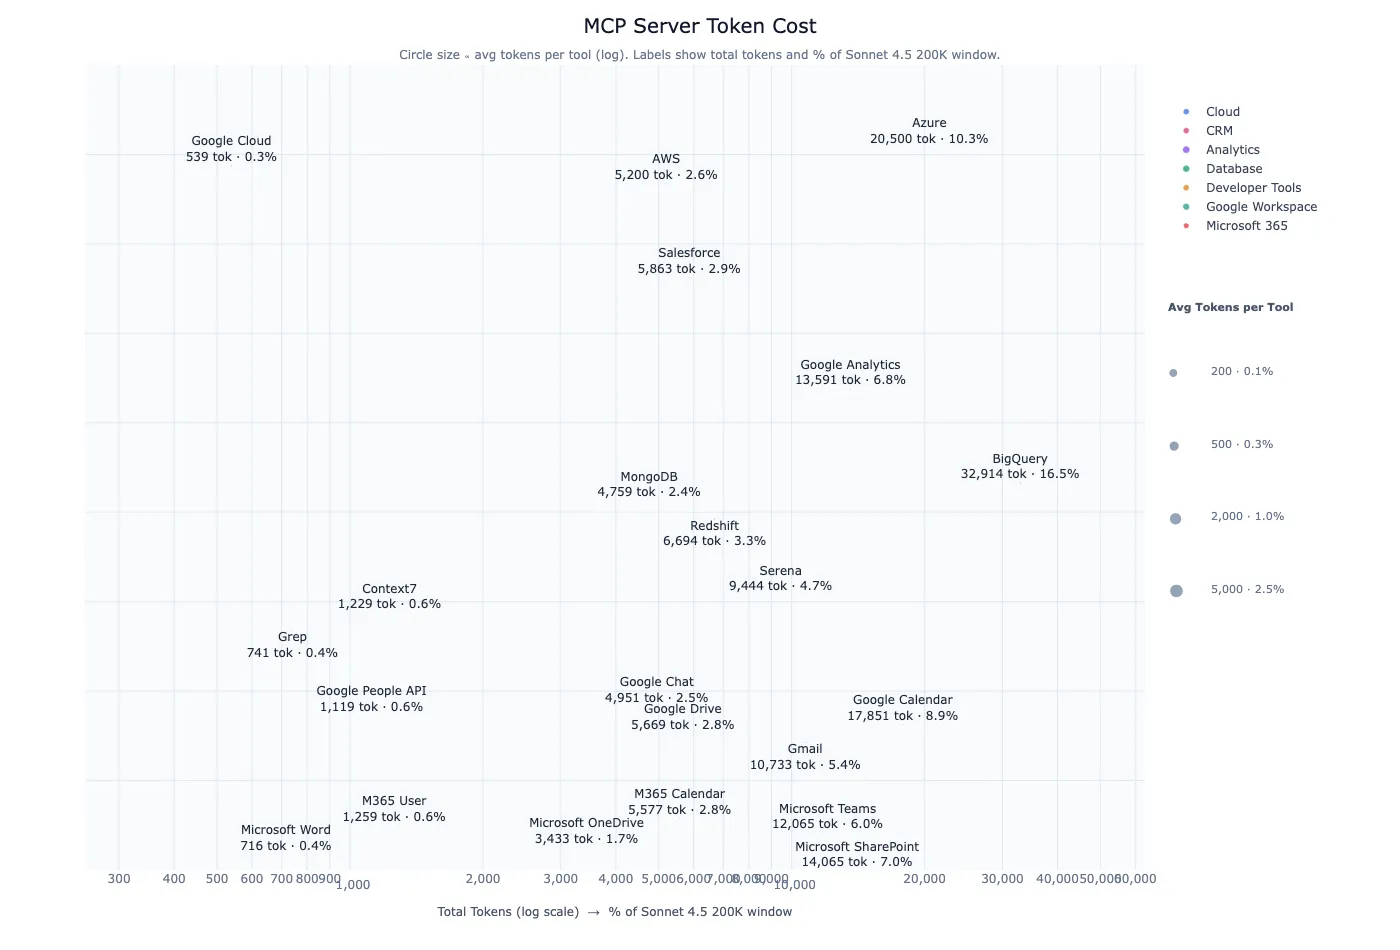
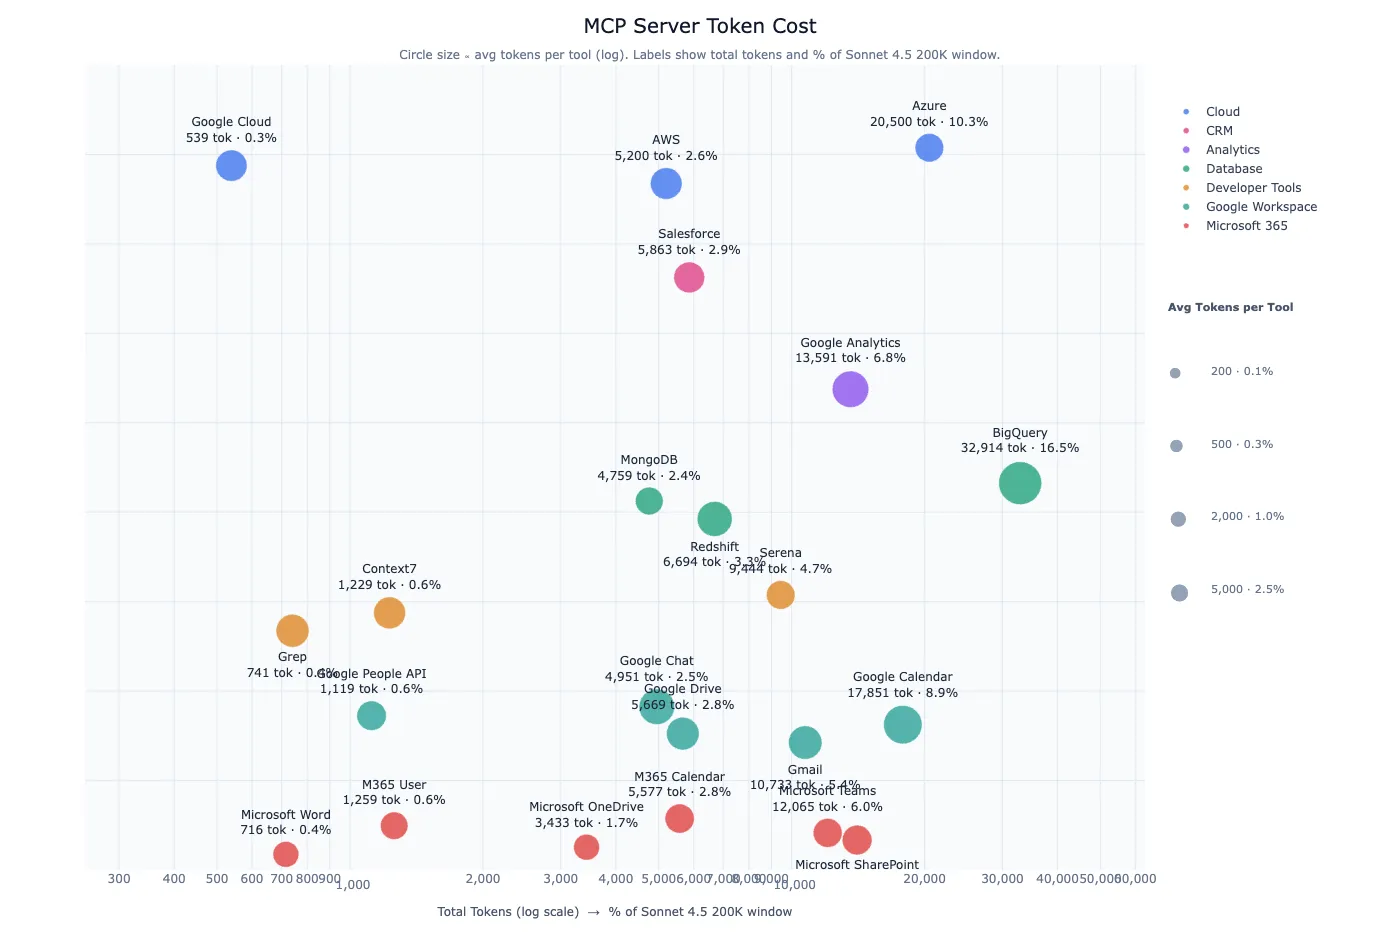
Fix size reference for token visualization and adjust marker size calculations

diff --git a/mcp-token-viz.html b/mcp-token-viz.html
@@ -56,7 +56,7 @@ const catBase = {};
 CATS.forEach((c, i) => { catBase[c] = (CATS.length - 1 - i) * 2.5 + 0.75; });
 
 // ── Size: natural log of avg tokens per tool (diameter mode) ──
-const SIZEREF = 5.5;
+const SIZEREF = 0.2;
 const sizeFn = d => Math.log(d.avg);
 
 DATA.forEach(d => {
@@ -85,7 +85,7 @@ function pxY(v) { return (YR[1] - v) / (YR[1] - YR[0]) * PH; }
 DATA.forEach(d => {
   d._px = pxX(d.tok);
   d._py = pxY(d.y);
-  d._mr = d.sz * SIZEREF / 2;
+  d._mr = d.sz / SIZEREF / 2;
   const stat = `${d.tok.toLocaleString()} tok · ${(d.tok/2000).toFixed(1)}%`;
   d.label = `${d.s}<br>${stat}`;
   d._tw = Math.max(d.s.length, stat.length) * CW;
@@ -174,7 +174,7 @@ const sizeAnnos = [
         xanchor: 'left', yanchor: 'middle',
         showarrow: false,
         text: '●',
-        font: { size: Math.log(v) * SIZEREF * 0.6, color: '#94a3b8' },
+        font: { size: Math.log(v) * 4.5, color: '#94a3b8' },
       },
       {
         x: 1.06, y: y,
